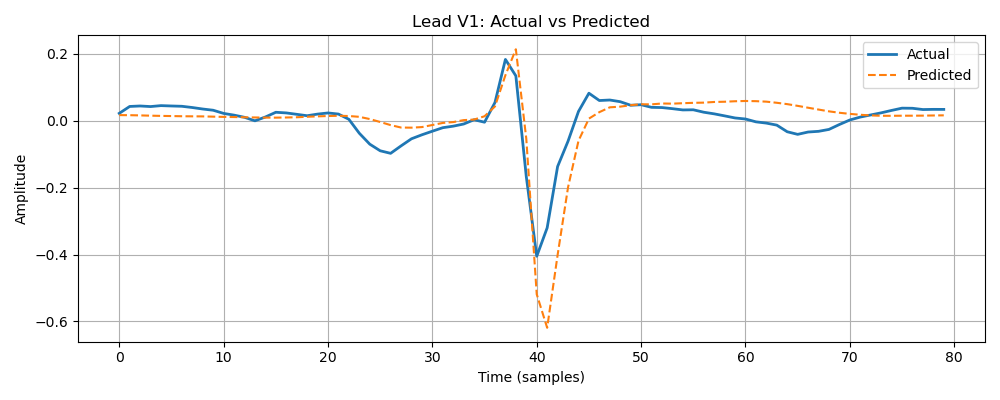
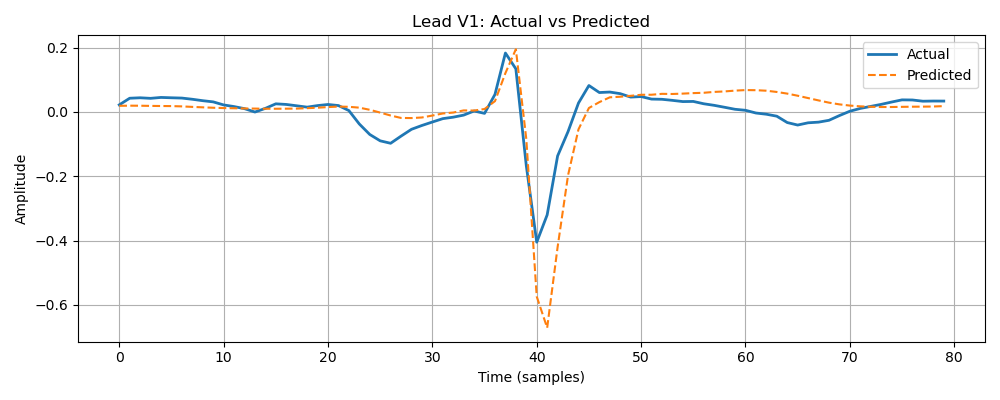
Using one-hot encoding for catigorical features like EAH and Superclasses

diff --git a/QRS_to_Multilead_Reconstruction/PQRST_Stats_Segment_Extractor.py b/QRS_to_Multilead_Reconstruction/PQRST_Stats_Segment_Extractor.py
@@ -23,6 +23,15 @@ meta_test_path = Path("test_split.csv")
 output_dir = Path("PQRST_Triplet_With_Stats_80")
 output_dir.mkdir(parents=True, exist_ok=True)
 
+# --- Load encoded feature names ---
+encoded_feats_path = Path("encoded_feature_names.txt")
+if encoded_feats_path.exists():
+    with open(encoded_feats_path, 'r') as f:
+        encoded_features = [line.strip() for line in f.readlines()]
+else:
+    encoded_features = []
+
+
 def extract_stat_features(segment):
     hist, _ = np.histogram(segment, bins=10, density=True)
     return {
@@ -63,13 +72,18 @@ def build_dataset_with_stats(ecg_dataset, meta_df):
     dataset = []
     for i, sample in enumerate(tqdm(ecg_dataset, desc="Building dataset with stats (80 samples)")):
         row_meta = meta_df.iloc[i]
-        age, sex = row_meta["age"], row_meta["sex"]
-        heart_axis = row_meta.get("heart_axis", 0)
+        age = row_meta.get("age", 0)
+        sex = row_meta.get("sex", 0)
         hr = row_meta.get("hr", 0)
+        
+        # Gather one-hot encoded features
+        onehot_features = {key: row_meta.get(key, 0) for key in encoded_features}
+
         lead_i = sample[:, 0]
         cleaned_i = nk.ecg_clean(lead_i, sampling_rate=sampling_rate)
         r_peaks_i = nk.ecg_peaks(cleaned_i, sampling_rate=sampling_rate)[1]['ECG_R_Peaks']
         p_i, q_i, r_i, s_i, t_i = find_qspt(cleaned_i, r_peaks_i, sampling_rate)
+
         lead_ii = sample[:, 1]
         cleaned_ii = nk.ecg_clean(lead_ii, sampling_rate=sampling_rate)
         r_peaks_ii_data = nk.ecg_peaks(cleaned_ii, sampling_rate=sampling_rate)
@@ -77,6 +91,7 @@ def build_dataset_with_stats(ecg_dataset, meta_df):
             continue
         r_peaks_ii = r_peaks_ii_data[1]['ECG_R_Peaks']
         p_ii, q_ii, r_ii, s_ii, t_ii = find_qspt(cleaned_ii, r_peaks_ii, sampling_rate)
+
         for j, r in enumerate(r_i):
             if j >= len(p_i) or j >= len(q_i) or j >= len(s_i) or j >= len(t_i):
                 continue
@@ -87,8 +102,7 @@ def build_dataset_with_stats(ecg_dataset, meta_df):
                 r_ii_val = r_peaks_ii[r_ii_idx]
             else:
                 continue
-            # --- MODIFIED SEGMENTATION ---
-            start, end = r - 40, r + 40  # 80 samples centered on R-peak
+            start, end = r - 40, r + 40
             if start >= 0 and end <= sample.shape[0]:
                 segment_i = lead_i[start:end]
                 segment_ii = lead_ii[start:end]
@@ -99,22 +113,22 @@ def build_dataset_with_stats(ecg_dataset, meta_df):
                 }
                 dataset.append({
                     "pqrst_lead_I": [(p_i[j]/sampling_rate, lead_i[p_i[j]]),
-                                     (q_i[j]/sampling_rate, lead_i[q_i[j]]),
-                                     (r/sampling_rate, lead_i[r]),
-                                     (s_i[j]/sampling_rate, lead_i[s_i[j]]),
-                                     (t_i[j]/sampling_rate, lead_i[t_i[j]])],
+                                      (q_i[j]/sampling_rate, lead_i[q_i[j]]),
+                                      (r/sampling_rate, lead_i[r]),
+                                      (s_i[j]/sampling_rate, lead_i[s_i[j]]),
+                                      (t_i[j]/sampling_rate, lead_i[t_i[j]])],
                     "pqrst_lead_II": [(p_ii[r_ii_idx]/sampling_rate, lead_ii[p_ii[r_ii_idx]]),
-                                      (q_ii[r_ii_idx]/sampling_rate, lead_ii[q_ii[r_ii_idx]]),
-                                      (r_ii_val/sampling_rate, lead_ii[r_ii_val]),
-                                      (s_ii[r_ii_idx]/sampling_rate, lead_ii[s_ii[r_ii_idx]]),
-                                      (t_ii[r_ii_idx]/sampling_rate, lead_ii[t_ii[r_ii_idx]])],
+                                       (q_ii[r_ii_idx]/sampling_rate, lead_ii[q_ii[r_ii_idx]]),
+                                       (r_ii_val/sampling_rate, lead_ii[r_ii_val]),
+                                       (s_ii[r_ii_idx]/sampling_rate, lead_ii[s_ii[r_ii_idx]]),
+                                       (t_ii[r_ii_idx]/sampling_rate, lead_ii[t_ii[r_ii_idx]])],
                     "stats_lead_I": stats_i,
                     "stats_lead_II": stats_ii,
                     "other_leads": other_leads_waveforms,
                     "age": age,
                     "sex": sex,
-                    "heart_axis": heart_axis,
                     "hr": hr,
+                    **onehot_features,
                     "source_index": i
                 })
     return dataset

diff --git a/QRS_to_Multilead_Reconstruction/Cleaned_Splitted_Data_Generator.py b/QRS_to_Multilead_Reconstruction/Cleaned_Splitted_Data_Generator.py
@@ -4,16 +4,22 @@ import numpy as np
 import pickle
 from utils import get_ecg, get_minmax, save_data
 from sklearn.model_selection import train_test_split
-from sklearn.preprocessing import LabelEncoder
+from sklearn.preprocessing import OneHotEncoder
 import matplotlib.pyplot as plt
 import seaborn as sns
 from tqdm import tqdm
 
 ROOT = Path(__file__).parent.resolve()
 DB_CSV_PATH = (ROOT.parent / 'csv_files' / 'data_base.csv').resolve()
-f_lst = ['ecg_id', 'superclasses', 'heart_axis', 'hr']  # ADDED 'hr' HERE
+# Load encoded feature names from file
+encoded_feats_path = ROOT / 'encoded_feature_names.txt'
+with open(encoded_feats_path, 'r') as f:
+    encoded_features = [line.strip() for line in f.readlines()]
+
+f_lst = ['ecg_id', 'hr'] + encoded_features  # ADDED 'hr' HERE
 leads = list(range(12))
 cols = ['I', 'II', 'III', 'aVR', 'aVL', 'aVF', 'V1', 'V2', 'V3', 'V4', 'V5', 'V6']
+
 
 def get_df(data_frame):
     data_frame['heart_axis'] = data_frame['heart_axis'].fillna('NOT')
@@ -24,16 +30,25 @@ def get_df(data_frame):
                           (data_frame['pacemaker'] == 0) &
                           (data_frame['burst_noise'] == 0) &
                           (data_frame['static_noise'] == 0)]
-    # ADDED 'hr' TO RETURNED COLUMNS
     return df_clean[['ecg_id', 'superclasses', 'heart_axis', 'filename_lr', 'age', 'sex', 'hr']]
 
-def create_labels(data_frame, column_name):
-    label_encoder = LabelEncoder()
-    data_frame[column_name] = label_encoder.fit_transform(data_frame[column_name])
-    with open(f'{column_name}_labeling.txt', 'w') as f:
-        for i, label in enumerate(label_encoder.classes_):
-            f.write(f'{i}: {label}\n')
-    return data_frame
+
+def one_hot_encode(df, columns, output_path):
+    encoder = OneHotEncoder(sparse_output=False, handle_unknown='ignore')
+    transformed = encoder.fit_transform(df[columns])
+    feature_names = encoder.get_feature_names_out(columns)
+    df_encoded = pd.DataFrame(transformed, columns=feature_names)
+    df = df.drop(columns, axis=1).reset_index(drop=True)
+    df_encoded = df_encoded.reset_index(drop=True)
+    df = pd.concat([df, df_encoded], axis=1)
+
+    # Save feature names to file
+    with open(output_path, "w") as f:
+        for name in feature_names:
+            f.write(f"{name}\n")
+
+    return df
+
 
 def save_img_minmax(data_frame, name='train'):
     Path(ROOT.joinpath('images')).mkdir(parents=True, exist_ok=True)
@@ -44,11 +59,13 @@ def save_img_minmax(data_frame, name='train'):
     plt.savefig(Path('images').joinpath(f'{name}_minmax.jpg'), bbox_inches='tight', dpi=600)
     plt.close()
 
+
 if __name__ == '__main__':
     df = pd.read_csv(DB_CSV_PATH)
     df_cut = get_df(df)
-    df_cut = create_labels(df_cut, 'heart_axis')
-    df_cut = create_labels(df_cut, 'superclasses')
+
+    # Apply one-hot encoding and save new column names
+    df_cut = one_hot_encode(df_cut, ['heart_axis', 'superclasses'], ROOT / 'encoded_feature_names.txt')
 
     train, test = train_test_split(df_cut, shuffle=True, test_size=0.2, random_state=10)
     train.to_csv("train_split.csv", index=False)

diff --git a/QRS_to_Multilead_Reconstruction/MLP_Model.py b/QRS_to_Multilead_Reconstruction/MLP_Model.py
@@ -13,6 +13,14 @@ from scipy.stats import pearsonr
 from sklearn.preprocessing import StandardScaler
 from sklearn.model_selection import train_test_split
 
+# --- Load encoded feature names ---
+encoded_feats_path = Path("encoded_feature_names.txt")
+if encoded_feats_path.exists():
+    with open(encoded_feats_path, 'r') as f:
+        encoded_features = [line.strip() for line in f.readlines()]
+else:
+    encoded_features = []
+
 # --- Config ---
 leads_to_predict = ['V1', 'V2', 'V3', 'V4', 'V5', 'V6']
 results_dir = Path("MLP_Model_Results")
@@ -47,8 +55,9 @@ def extract_features_and_targets(data, target_lead):
             # Metadata
             age = seg.get("age", 0)
             sex = 1 if str(seg.get("sex", "M")).upper().startswith("M") else 0
-            heart_axis = int(seg.get("heart_axis", 0))
             hr = seg.get("hr", 0)
+            # One-hot encoded features
+            onehot_values = [seg.get(name, 0) for name in encoded_features]
             # Statistical features
             stats_i = seg['stats_lead_I']
             stats_ii = seg['stats_lead_II']
@@ -56,13 +65,13 @@ def extract_features_and_targets(data, target_lead):
                 pr_interval_I, qrs_duration_I, qt_interval_I,
                 pr_interval_II, qrs_duration_II, qt_interval_II,
                 aq1, ar1, as1, at1, aq2, ar2, as2, at2,
-                age, sex, heart_axis, hr
-            ] + list(stats_i.values()) + list(stats_ii.values())
+                age, sex, hr
+            ] + onehot_values + list(stats_i.values()) + list(stats_ii.values())
             target = seg['other_leads'][target_lead]
             if len(target) == 80:  # Only accept 80-sample segments
                 X.append(features)
                 y.append(target)
-        except Exception as e:
+        except Exception:
             continue
     return np.array(X), np.array(y)
 
